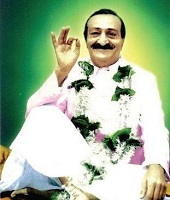
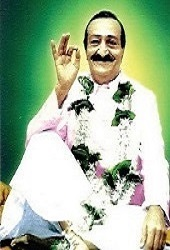
Image resized

diff --git a/Pages/image.html b/Pages/image.html
@@ -9,17 +9,22 @@
 
     <style type="text/css">
         html,
+		
+		
         body {
             margin: 0;
             padding: 0;
-            height: 100%;
+            height: 145%;
+			
+			
         }
 
         #footer {
             position: fixed;
+			top: 665px;
             left: 0px;
             bottom: 0px;
-            height: 70px;
+            height: 90px;
             width: 100%;
             background: #e6caff;
             text-align: center;
@@ -374,12 +379,12 @@
 </script>
 
 <div class="gallery">
-    <img src="../Content/images/photos_age/childhood.jpg" alt="Merwan Sheriar Irani" width="170" height="253">
+    <img src="../Content/images/photos_age/childhood.jpg" alt="Merwan Sheriar Irani" width="170" height="200">
     <div class="desc">Baba at childhood</div>
 </div>
 
 <div class="gallery">
-   <img src="../Content/images/photos_age/young_age.jpg" alt="Merwan Sheriar Irani" width="130" height="253">
+   <img src="../Content/images/photos_age/young_age.jpg" alt="Merwan Sheriar Irani" width="170" height="200">
     <div class="desc">Baba at young age</div>
 </div>
 
@@ -388,11 +393,16 @@
     <div class="desc">Baba after Enlightened</div>
 </div>
 
+
+
 <div id="footer">
+
     <p> Made With ♥ By <a href="http://dreamstar.pro" target="_blank"><span>Dream Star Pro</span></a>
     <p> Open Source Project <a href="https://github.com/DreamStarPro/mWebsite"
                                target="_blank"><span>click here</span></a></p>
 </div>
+
+
 
 
 </body>

diff --git a/Pages/content.html b/Pages/content.html
@@ -19,7 +19,7 @@
             position: fixed;
             left: 0px;
             bottom: 0px;
-            height: 70px;
+            height: 120px;
             width: 100%;
             background: #e6caff;
             text-align: center;
@@ -64,6 +64,7 @@
 <h4>E-Books:</h4><a href="../Content/intro.pdf" target="_blank">Introduction</a>
 
 <div id="footer">
+<h4> <marquee behavior="alternate" BGCOLOR=White>Thank you for visiting meherbaba.in</marquee> <h4> 
     <p> Made With ♥ By <a href="http://dreamstar.pro" target="_blank"><span>Dream Star Pro</span></a></p>
     <p> Open Source Project <a href="https://github.com/DreamStarPro/mWebsite"
                                target="_blank"><span>click here</span></a></p>

diff --git a/Pages/quote.html b/Pages/quote.html
@@ -19,7 +19,7 @@
             position: fixed;
             left: 0px;
             bottom: 0px;
-            height: 70px;
+            height: 120px;
             width: 100%;
             background: #e6caff;
             text-align: center;
@@ -70,6 +70,7 @@
 <script src="../JavaScript/quoteGenerator.js"></script>
 
 <div id="footer">
+<h4> <marquee behavior="alternate" BGCOLOR=White>Thank you for visiting meherbaba.in</marquee> <h4> 
     <p> Made With ♥ By <a href="http://dreamstar.pro" target="_blank"><span>Dream Star Pro</span></a></p>
     <p> Open Source Project <a href="https://github.com/DreamStarPro/mWebsite"
                                target="_blank"><span>click here</span></a></p>
